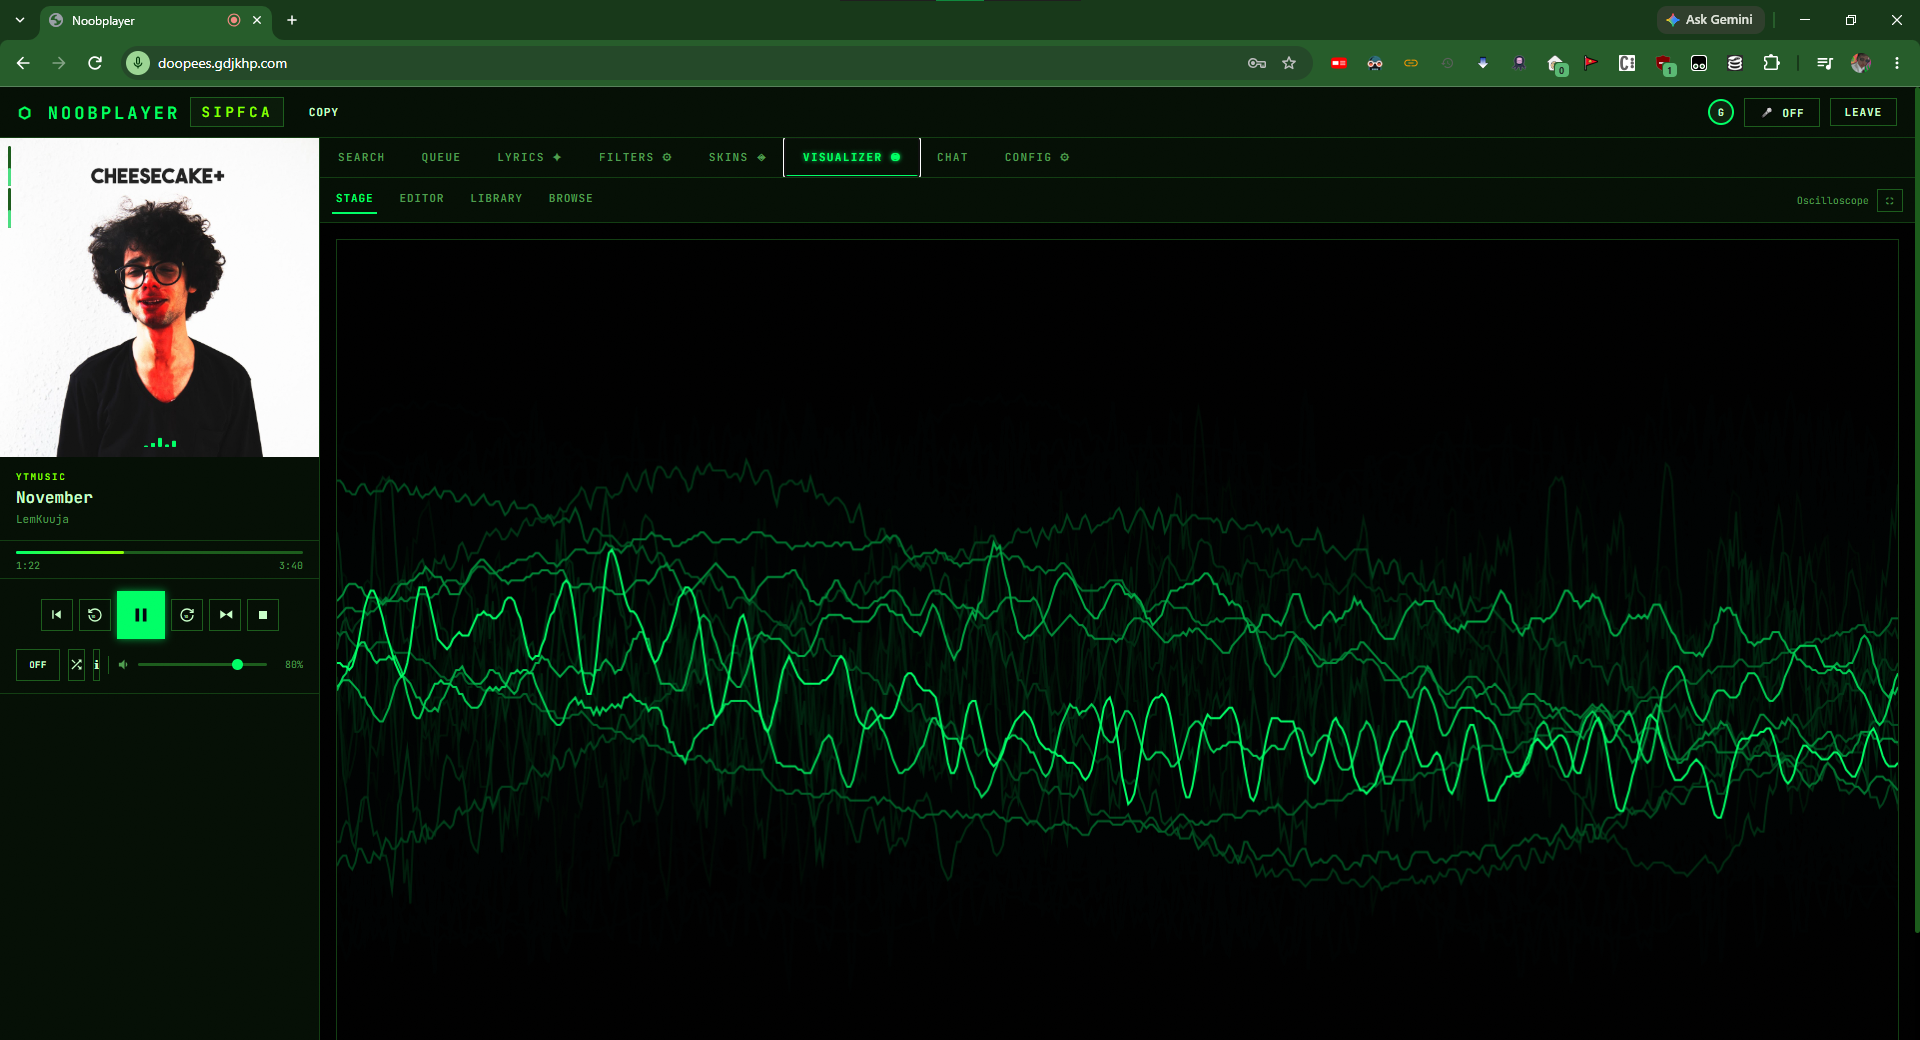
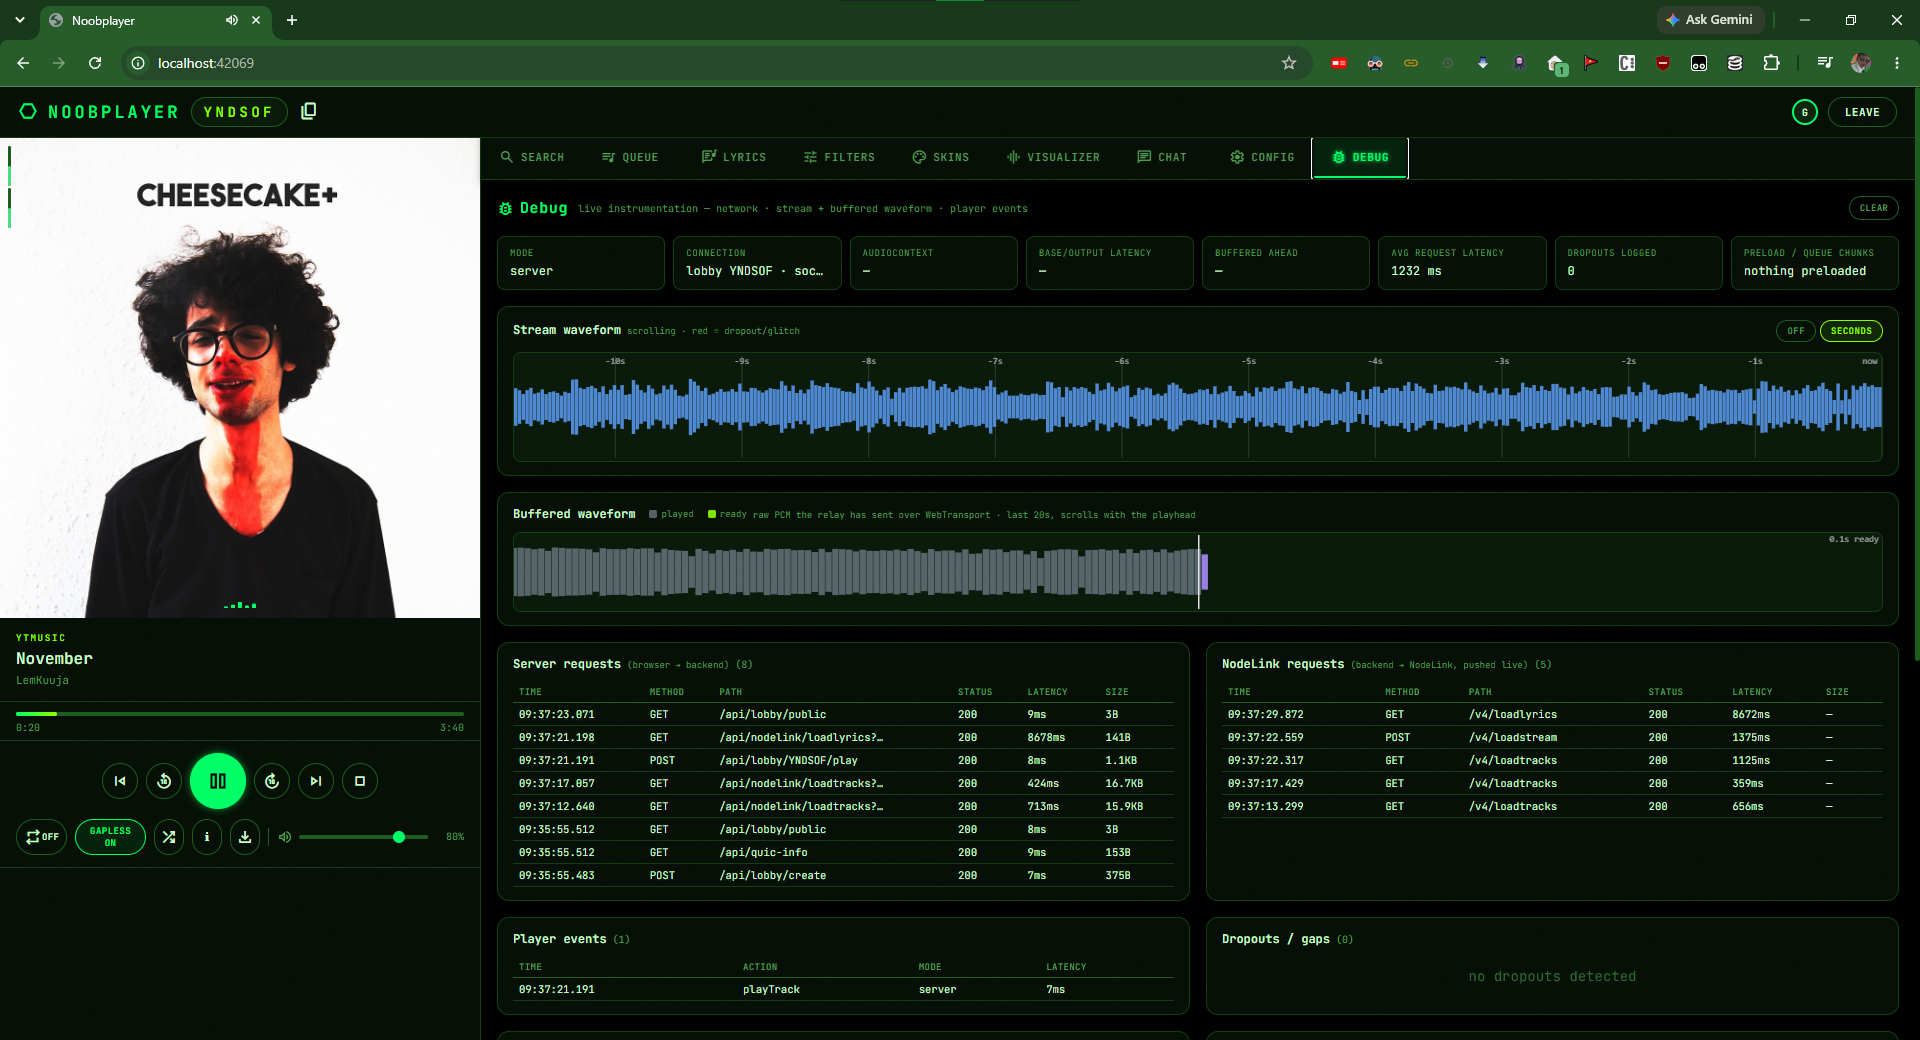
localhost fix

diff --git a/css/style.css b/css/style.css
@@ -157,7 +157,7 @@ body::after {
   padding: 10px 18px; border-bottom: 1px solid var(--brd);
   background: var(--surf); flex-wrap: wrap; flex-shrink: 0; z-index: 10;
 }
-.logo { font-size: 17px; font-weight: 800; letter-spacing: .18em; text-transform: uppercase; color: var(--accent); flex-shrink: 0; }
+.logo { gap: 10px; display: flex; font-size: 17px; font-weight: 800; letter-spacing: .18em; text-transform: uppercase; color: var(--accent); flex-shrink: 0; }
 .pcm-badge {
   font-family: var(--fm); font-size: 9px; font-weight: 600; letter-spacing: .12em;
   background: color-mix(in srgb, var(--accent) 12%, transparent); border: 1px solid color-mix(in srgb, var(--accent) 30%, transparent);
@@ -173,7 +173,7 @@ body::after {
   cursor: pointer; transition: all .15s; flex-shrink: 0;
 }
 .hdr-btn:hover { border-color: var(--accent); color: var(--accent); background: var(--st-hover); }
-.hdr-btn.ghost { border-color: transparent; }
+.hdr-btn.ghost { border-color: transparent; padding: 0;}
 .hdr-btn.danger:hover { border-color: var(--red); color: var(--red); background: color-mix(in srgb, var(--red) 8%, transparent); }
 #sdot { width: 7px; height: 7px; border-radius: 50%; background: var(--muted2); flex-shrink: 0; }
 #sdot.ok { background: var(--green); animation: blink 2.4s ease-in-out infinite; }
@@ -778,7 +778,7 @@ body::after {
 #dbg-root { flex: 1; overflow-y: auto; min-height: 0; }
 .dbg-wrap { display: flex; flex-direction: column; gap: 16px; padding: 16px; }
 
-.dbg-toolbar { display: flex; align-items: baseline; gap: 10px; flex-wrap: wrap; }
+.dbg-toolbar { display: flex; align-items: center; gap: 10px; flex-wrap: wrap; }
 .dbg-title { display: inline-flex; align-items: center; gap: 6px; font-weight: 800; font-size: 15px; color: var(--accent); letter-spacing: .04em; }
 .dbg-title .material-symbols-outlined { font-size: 17px; }
 .dbg-sub { font-family: var(--fm); font-size: 10px; color: var(--muted); flex: 1; }

diff --git a/js/api.js b/js/api.js
@@ -179,23 +179,11 @@ const LobbyAPI = {
   // hostname from JS, but "localhost" specifically is safe to hardcode.
   // A real (CA-signed, non-pinned) deployment wouldn't hit this at all —
   // see the comment in WebTransportPlayer.connect for that path.
-  //
-  // `info.host`, when the server sets QUIC_PUBLIC_IP (config.py), is
-  // exactly that IP literal for a deployment sitting behind a real
-  // domain — Backend.serverUrl's hostname (e.g. "doopees.gdjkhp.com")
-  // can't be used directly for the same reason "localhost" can't, and
-  // unlike localhost there's no way to derive it client-side, so the
-  // server just tells us.
   quicUrl(code, info) {
-    let host;
-    if (info.host) {
-      host = info.host;
-    } else {
-      host = new URL(this.base()).hostname;
-      if (host === 'localhost') host = '127.0.0.1';
-      else if (!/^(\d{1,3}\.){3}\d{1,3}$/.test(host) && !host.startsWith('[')) {
-        throw new Error(`can't open a pinned WebTransport session to "${host}" — set QUIC_PUBLIC_IP in config.py to this server's public IP address (or use a CA-signed cert to skip pinning entirely)`);
-      }
+    let host = new URL(this.base()).hostname;
+    if (host === 'localhost') host = '127.0.0.1';
+    else if (!/^(\d{1,3}\.){3}\d{1,3}$/.test(host) && !host.startsWith('[')) {
+      throw new Error(`can't open a pinned WebTransport session to "${host}" — connect via its IP address instead (or use a CA-signed cert to skip pinning entirely)`);
     }
     const path = info.path.replace('{code}', code);
     return `https://${host}:${info.port}${path}`;

diff --git a/index.html b/index.html
@@ -25,7 +25,7 @@
   <div id="hdr-lobby" class="hdr" style="display:none">
     <span class="logo"><span class="material-symbols-outlined">hexagon</span>Noobplayer</span>
     <span class="lobby-code-badge" id="lobby-code-display">------</span>
-    <button id="btn-copy-code" class="hdr-btn ghost" title="Copy invite code">Copy</button>
+    <button id="btn-copy-code" class="hdr-btn ghost" title="Copy invite code"><span class="material-symbols-outlined">content_copy</span></button>
     <span class="hdr-fill"></span>
     <div id="participants-strip"></div>
     <button id="btn-leave-lobby" class="hdr-btn danger">Leave</button>
